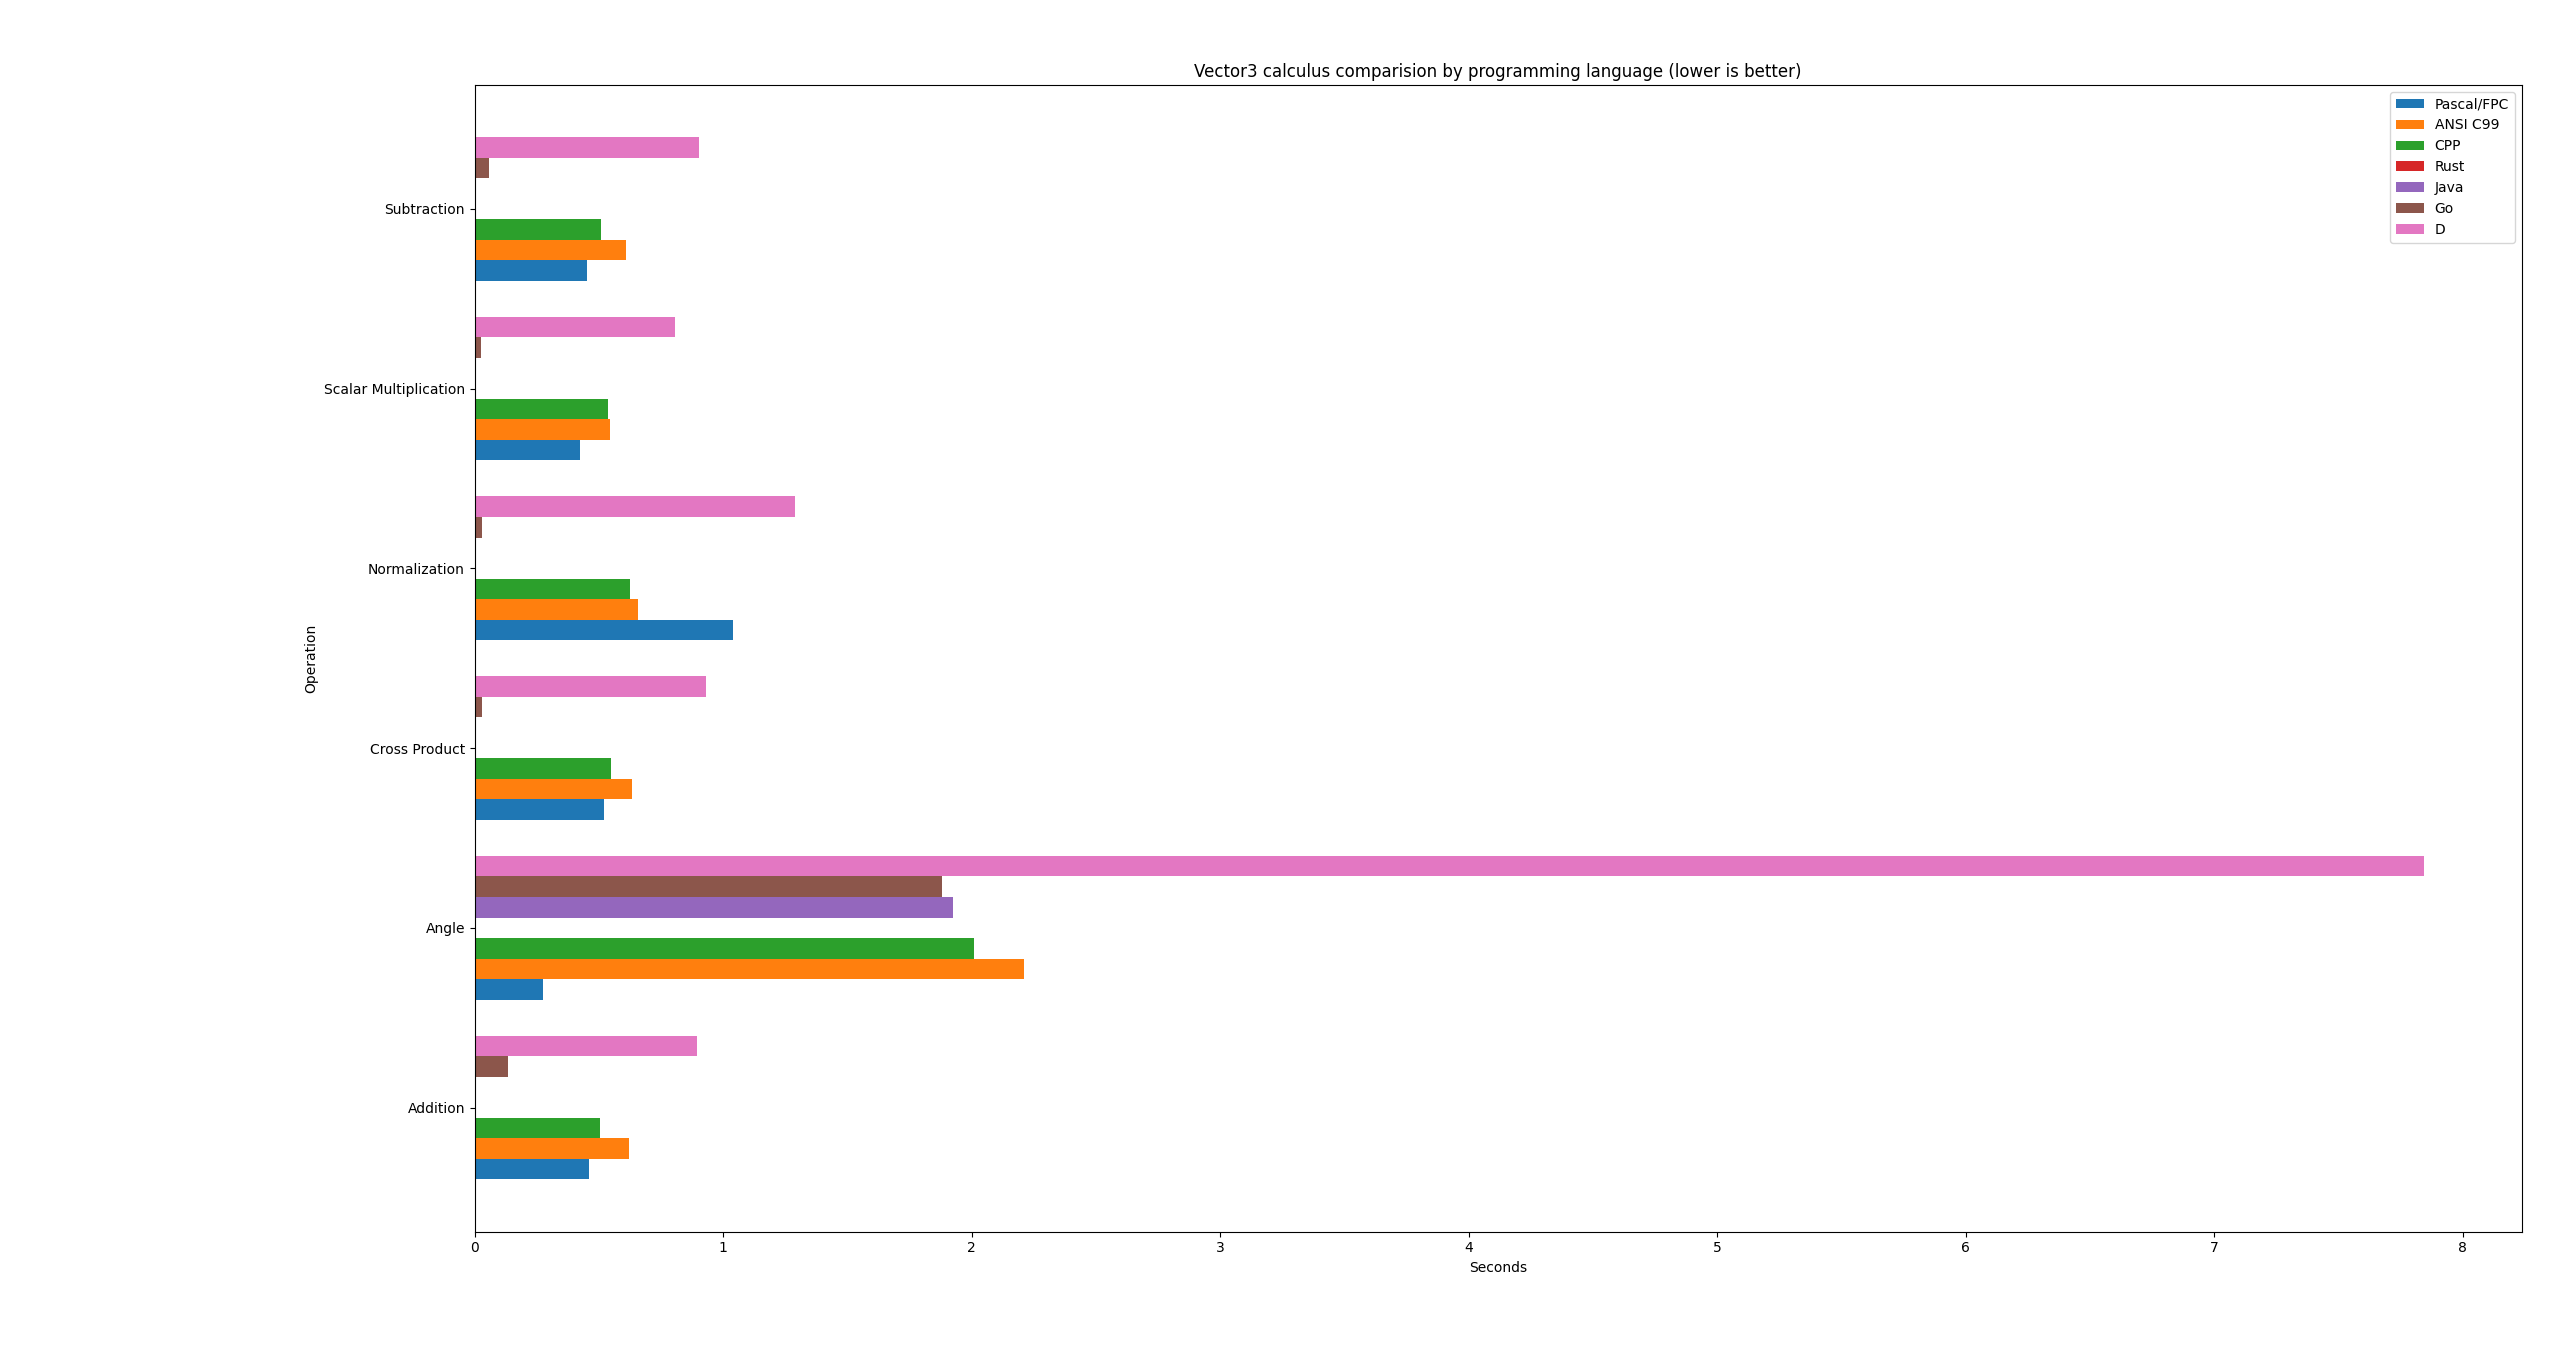
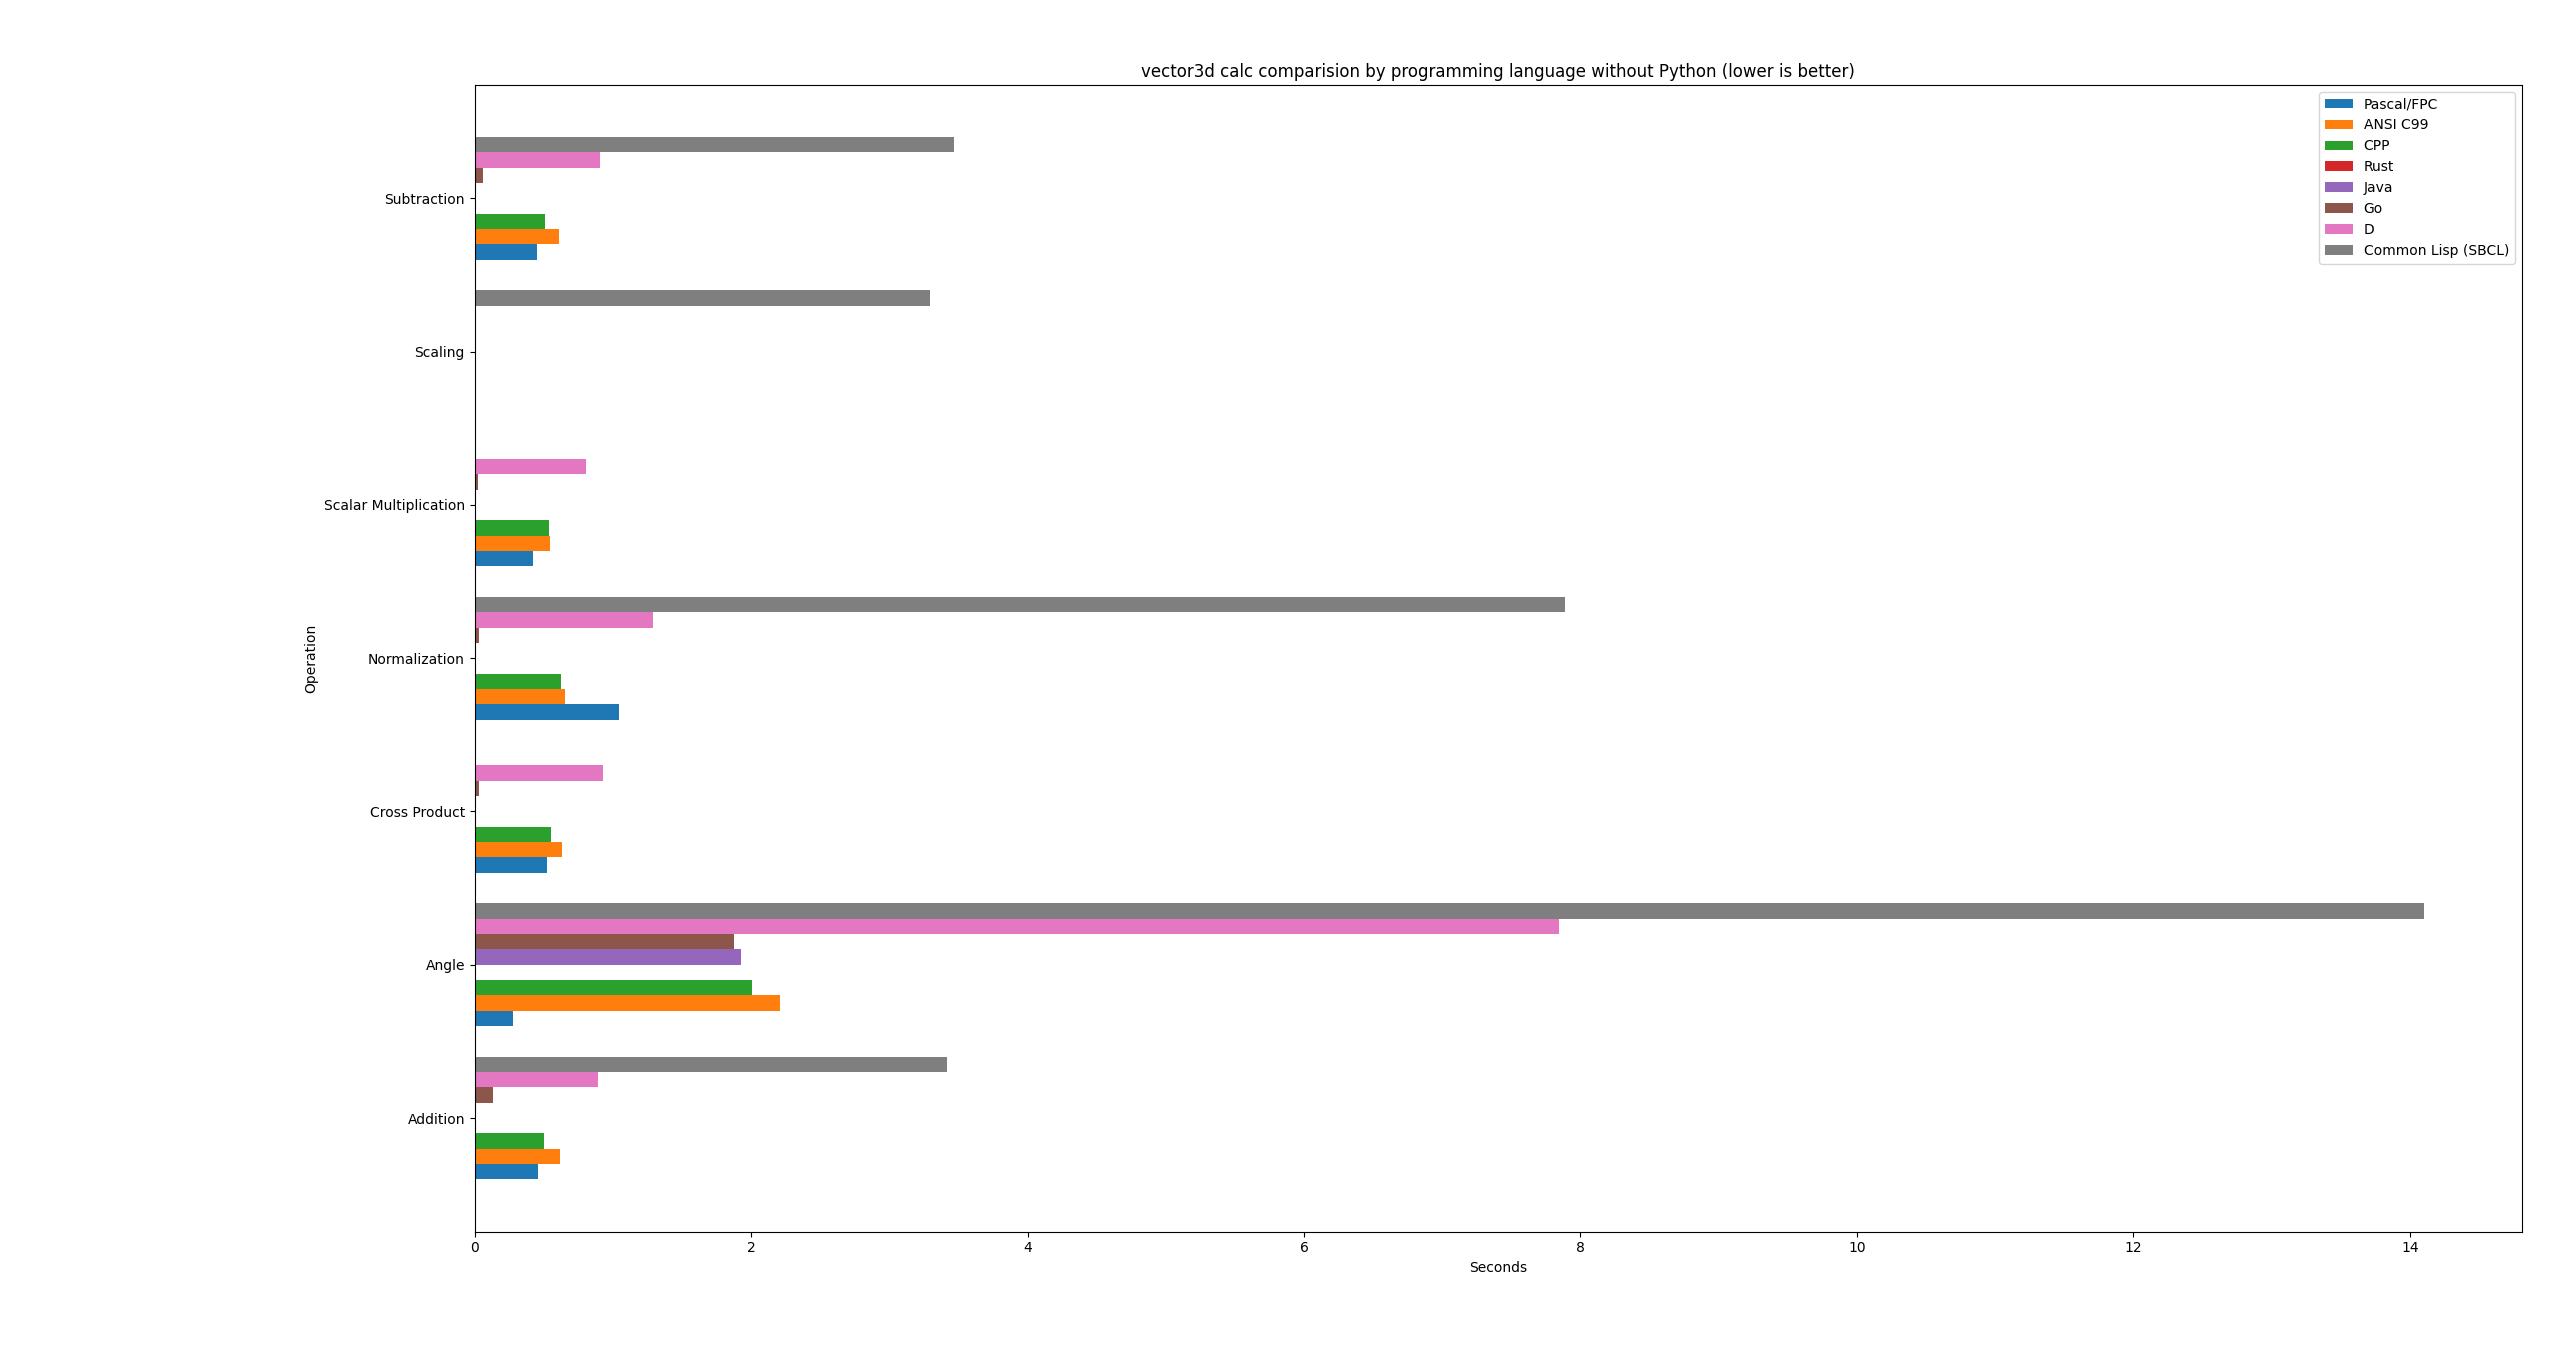
add vector3 impl. in Lisp lang.

diff --git a/vector3/README.md b/vector3/README.md
@@ -80,5 +80,20 @@ Cross Product: 0.93123390 seconds
 Scalar Multiplication: 0.80616550 seconds
 Normalization: 1.29011100 seconds
 Angle: 7.84480880 seconds
+
+$ cd lisp/
+$ sudo apt install sbcl
+$ time sbcl --script main.lisp
+Technology: Common Lisp (SBCL)
+Addition: 3.41600000 seconds
+Subtraction: 3.46500000 seconds
+Scaling: 3.29200000 seconds
+Normalization: 7.88500000 seconds
+Angle: 14.10300000 seconds
+
+real	0m32,243s
+user	0m32,150s
+sys	0m0,088s
+
 ```
 
